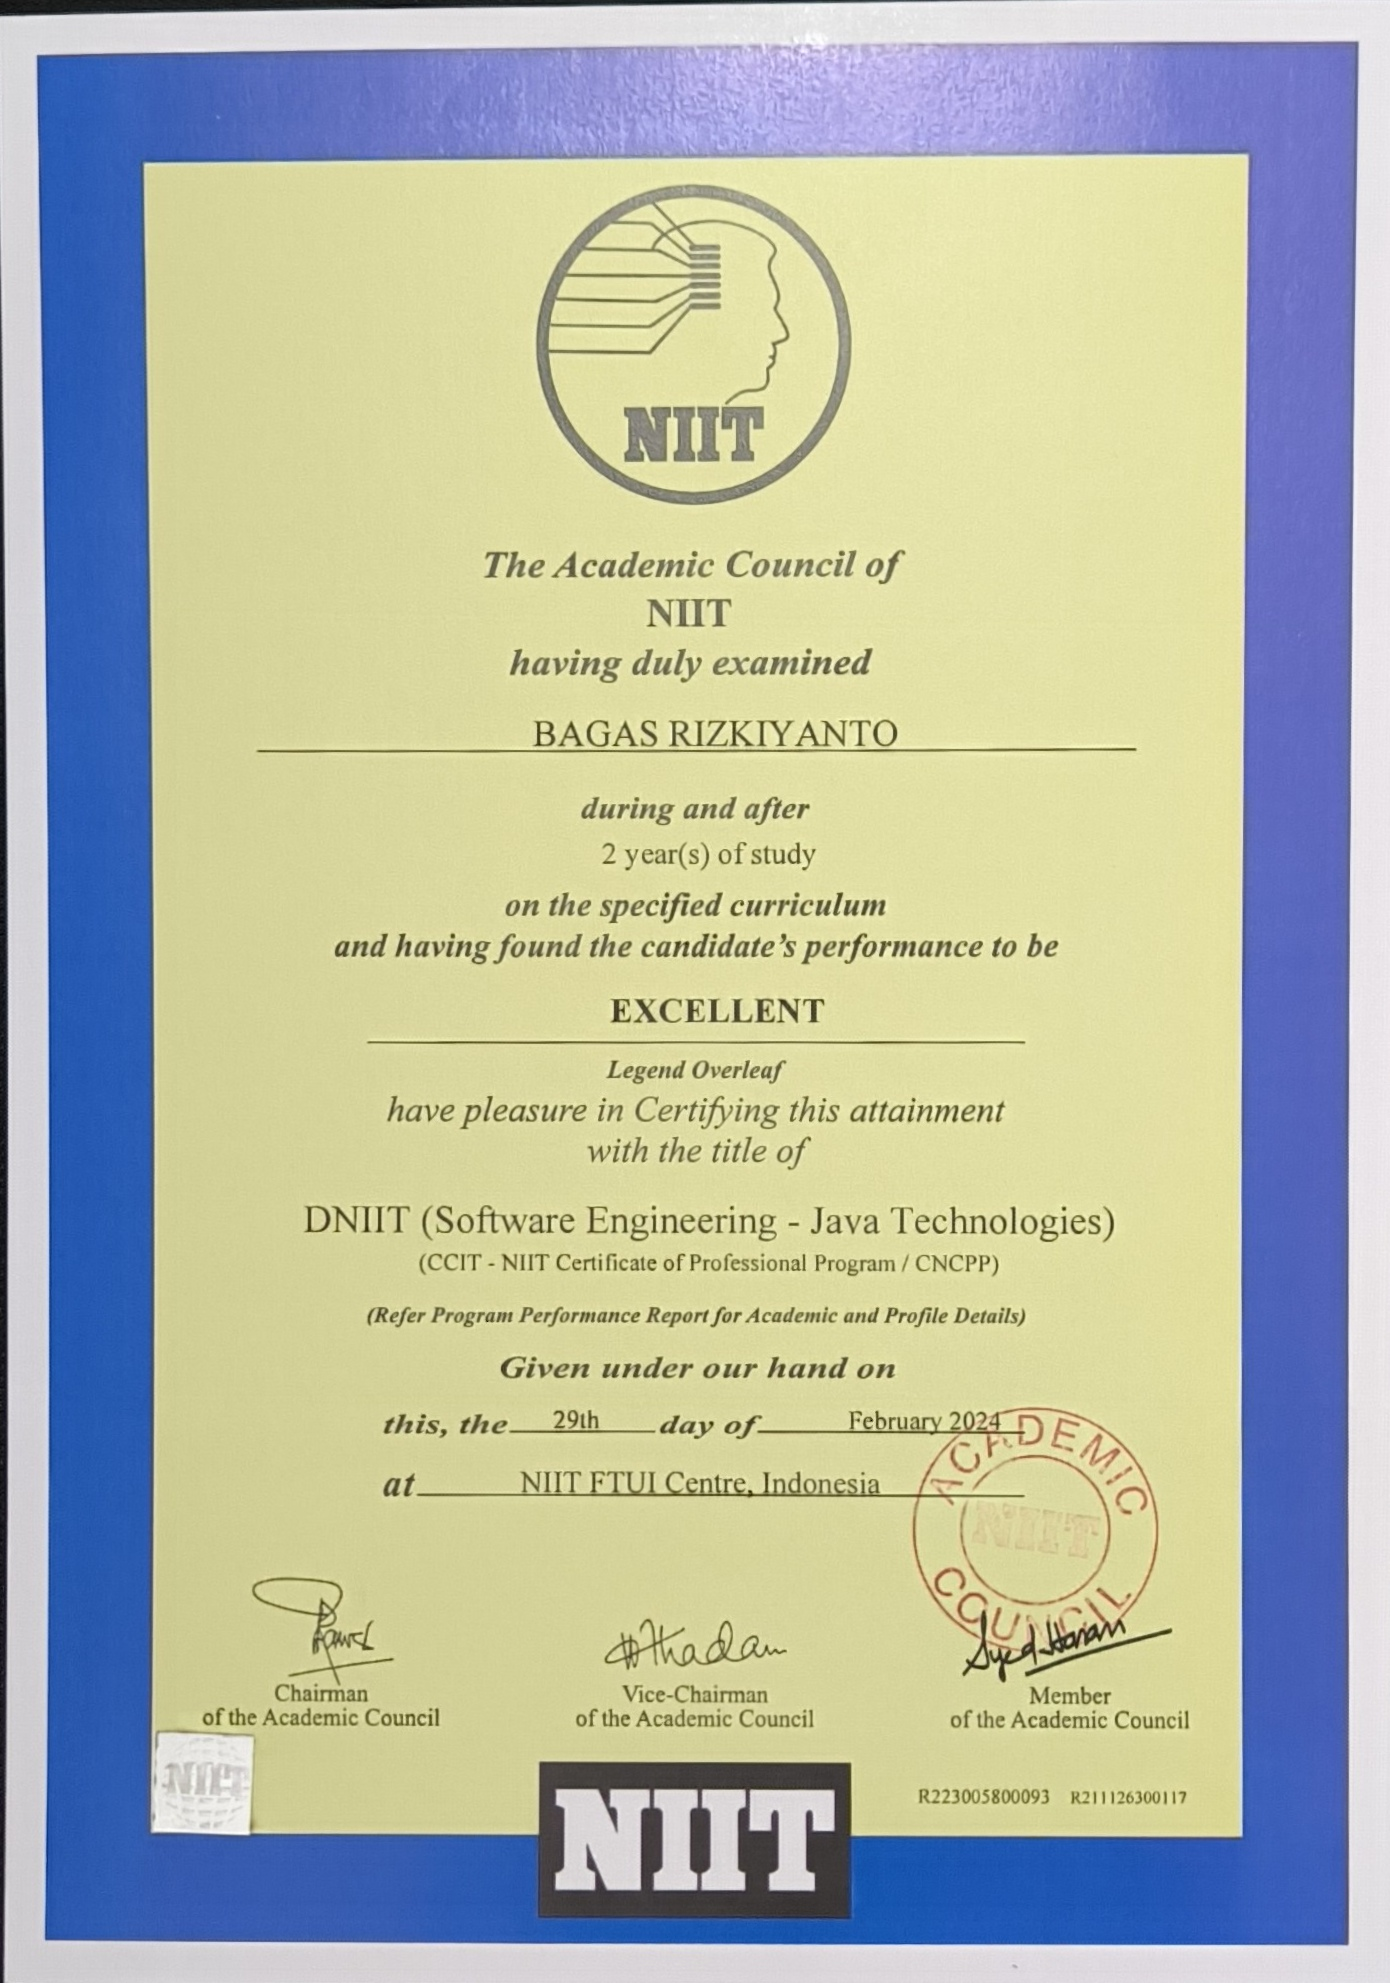
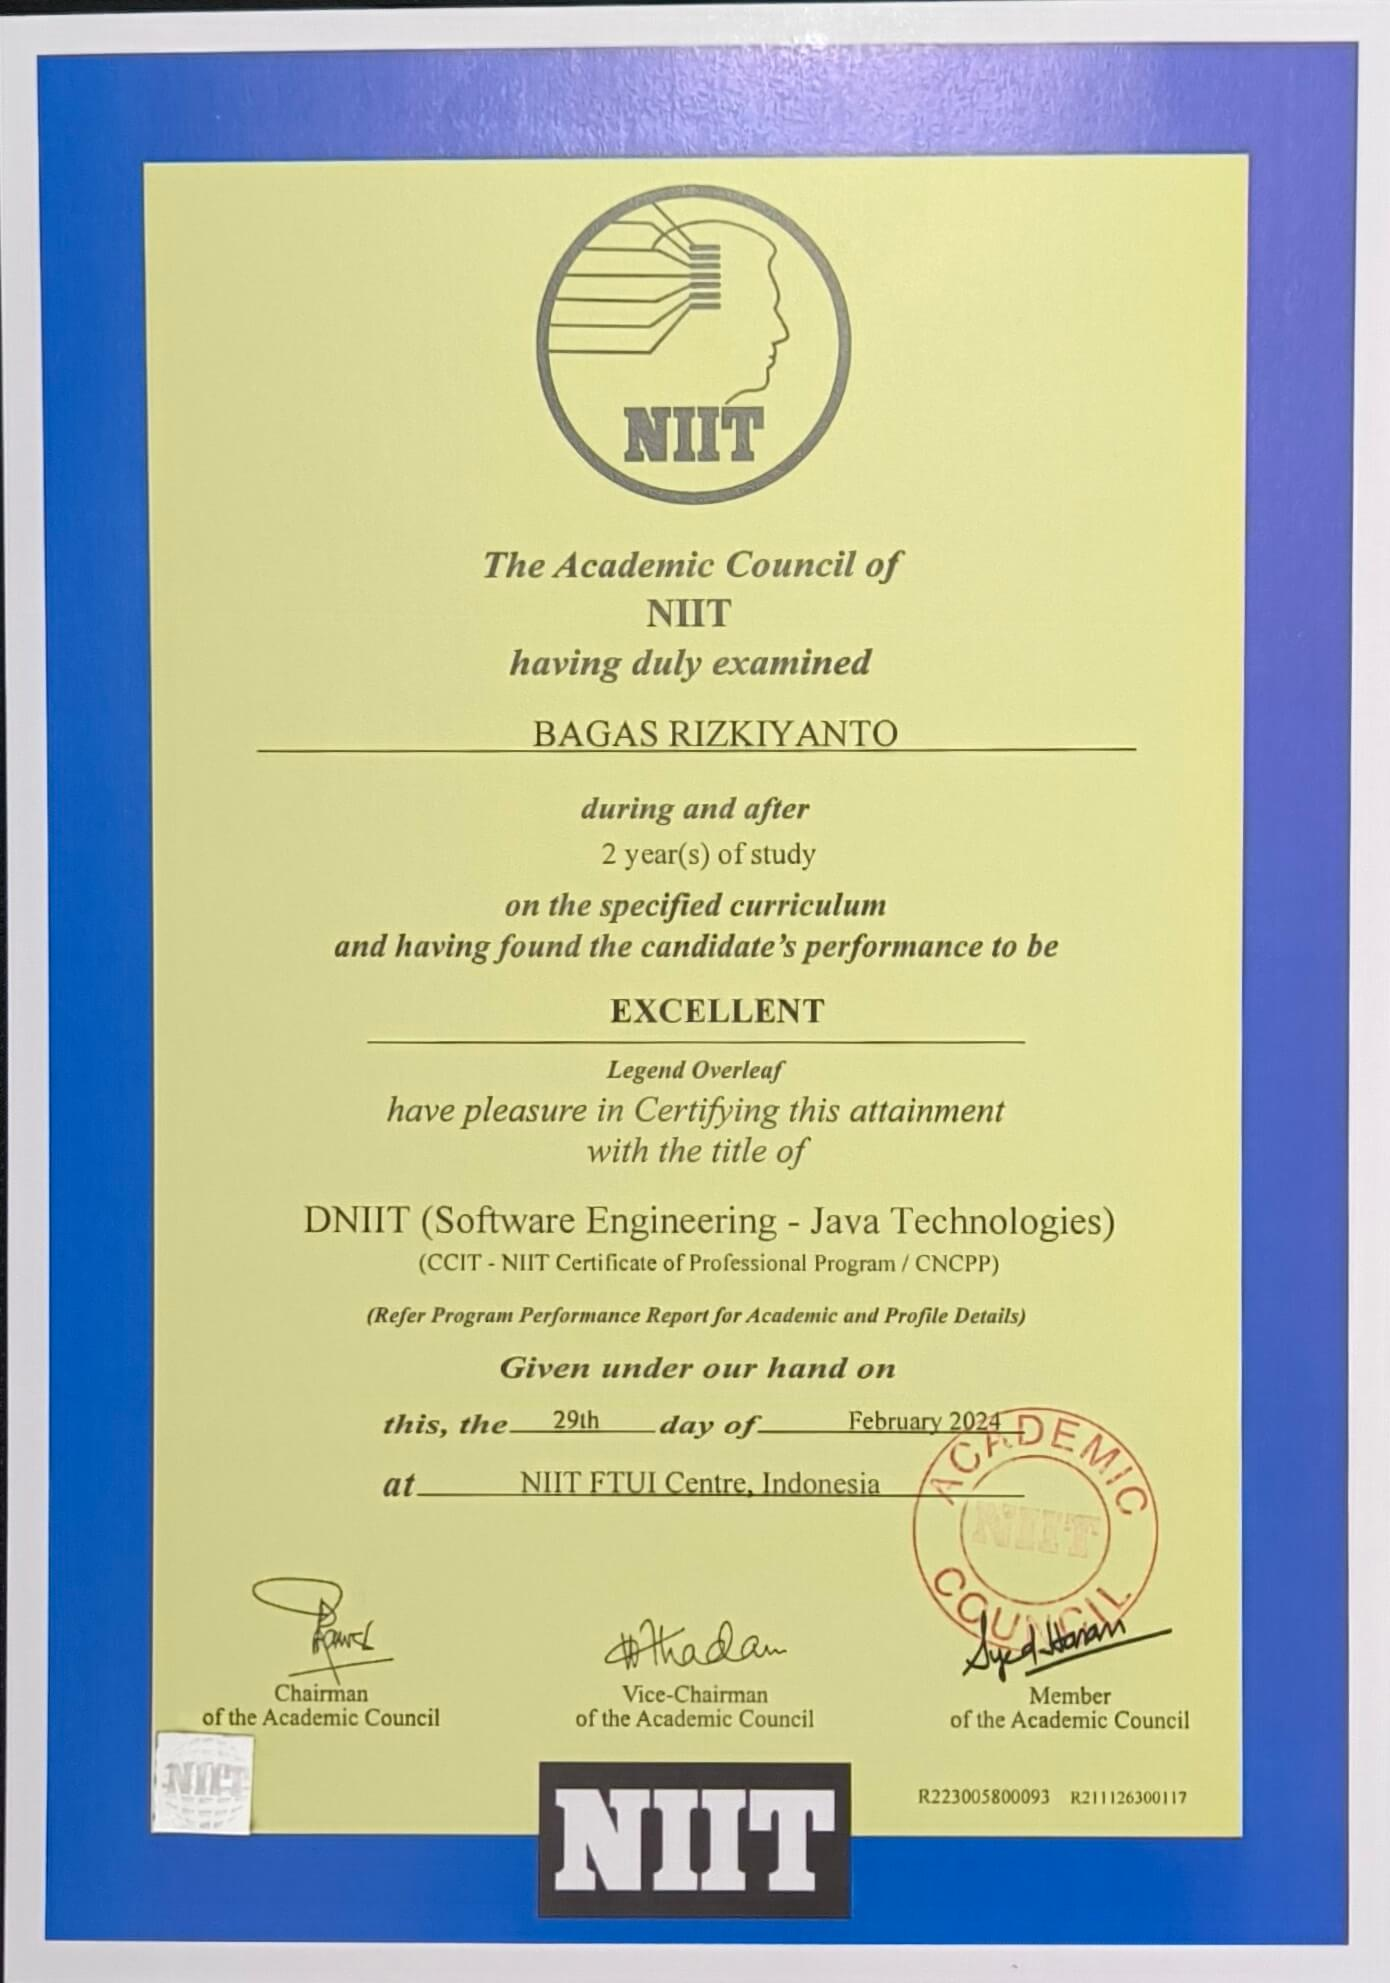
optimisasi ukuran gambar

Changed region(s): [[0.0309, 0.0308, 0.1237, 0.9536], [0.5878, 0.9228, 0.8662, 0.9844], [0.3403, 0.9228, 0.5568, 0.9844]]

diff --git a/tailwind.config.js b/tailwind.config.js
@@ -6,6 +6,8 @@ export default {
       animation: {
         borderSpinRGB: "borderRGB 4s linear infinite, spin 4s linear infinite",
         pagesRGB: "bacgroundRGB 4s linear infinite",
+        skeleton: "skeletonLoading 2s linear infinite",
+        borderSpinSKeleton: "spin 1s linear infinite",
       },
       keyframes: {
         borderRGB: {
@@ -46,6 +48,17 @@ export default {
           },
           "100%": {
             backgroundColor: "#FF1493",
+          },
+        },
+        skeletonLoading: {
+          "0%": {
+            backgroundColor: "#E5E7EB",
+          },
+          "50%": {
+            backgroundColor: "#4B5563",
+          },
+          "100%": {
+            backgroundColor: "#E5E7EB",
           },
         },
       },

diff --git a/src/pages/Experiences.tsx b/src/pages/Experiences.tsx
@@ -26,6 +26,9 @@ const Experiences = () => {
         </p>
       </div>
       <div className="grid grid-cols-1 lg:grid-cols-2 gap-16">
+        {/* <div className="h-screen w-full animate-skeleton flex items-center justify-center">
+          <div className="size-20 lg:size-40 rounded-full animate-borderSpinSKeleton border-t-4 border-gray-700"></div>
+        </div> */}
         <CardImage
           title="Toolstore"
           role="Full Stack Web Developer"
